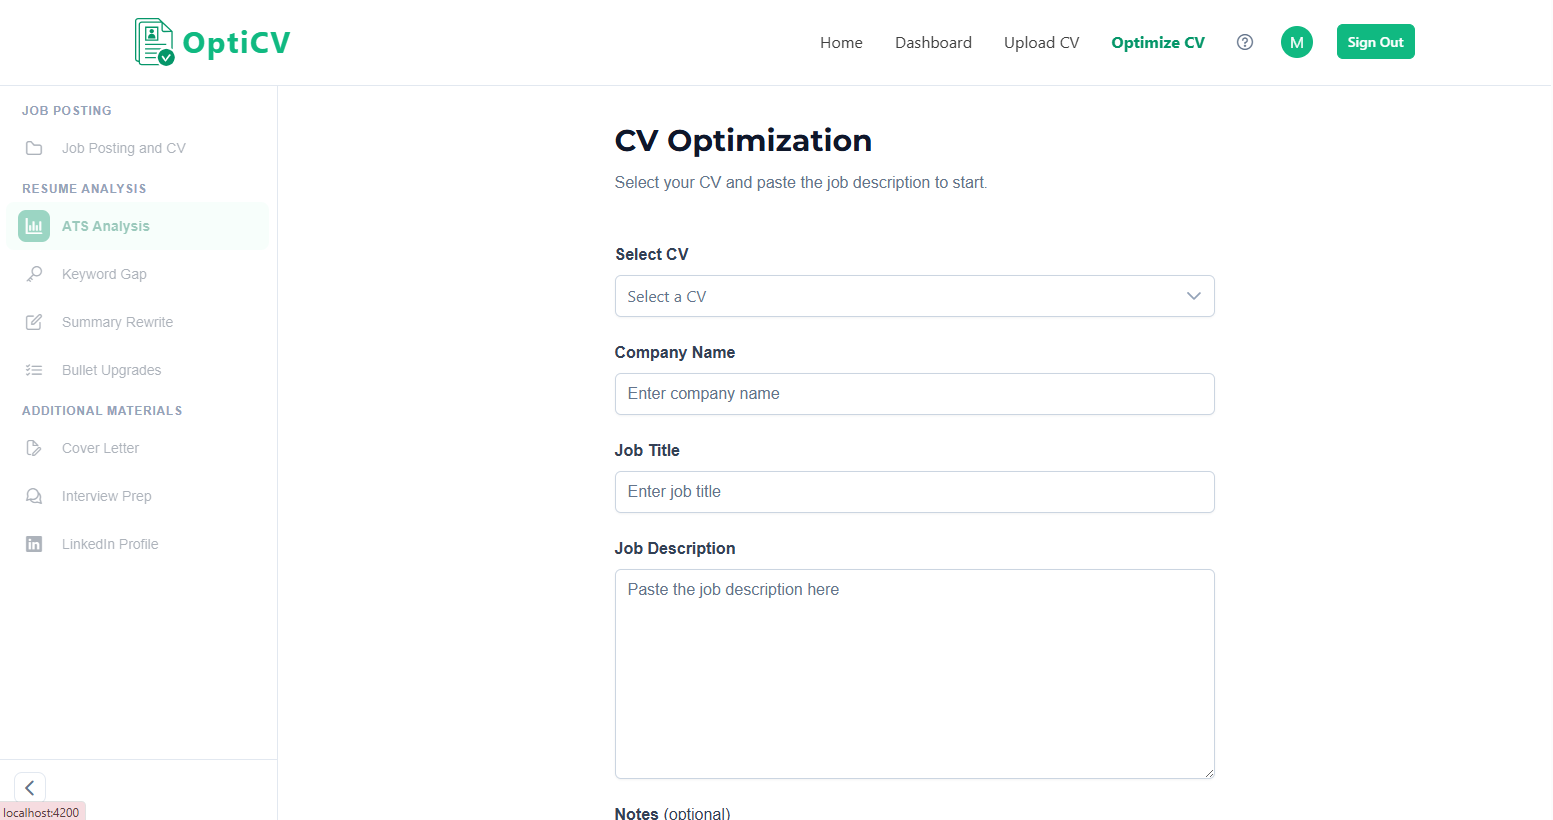
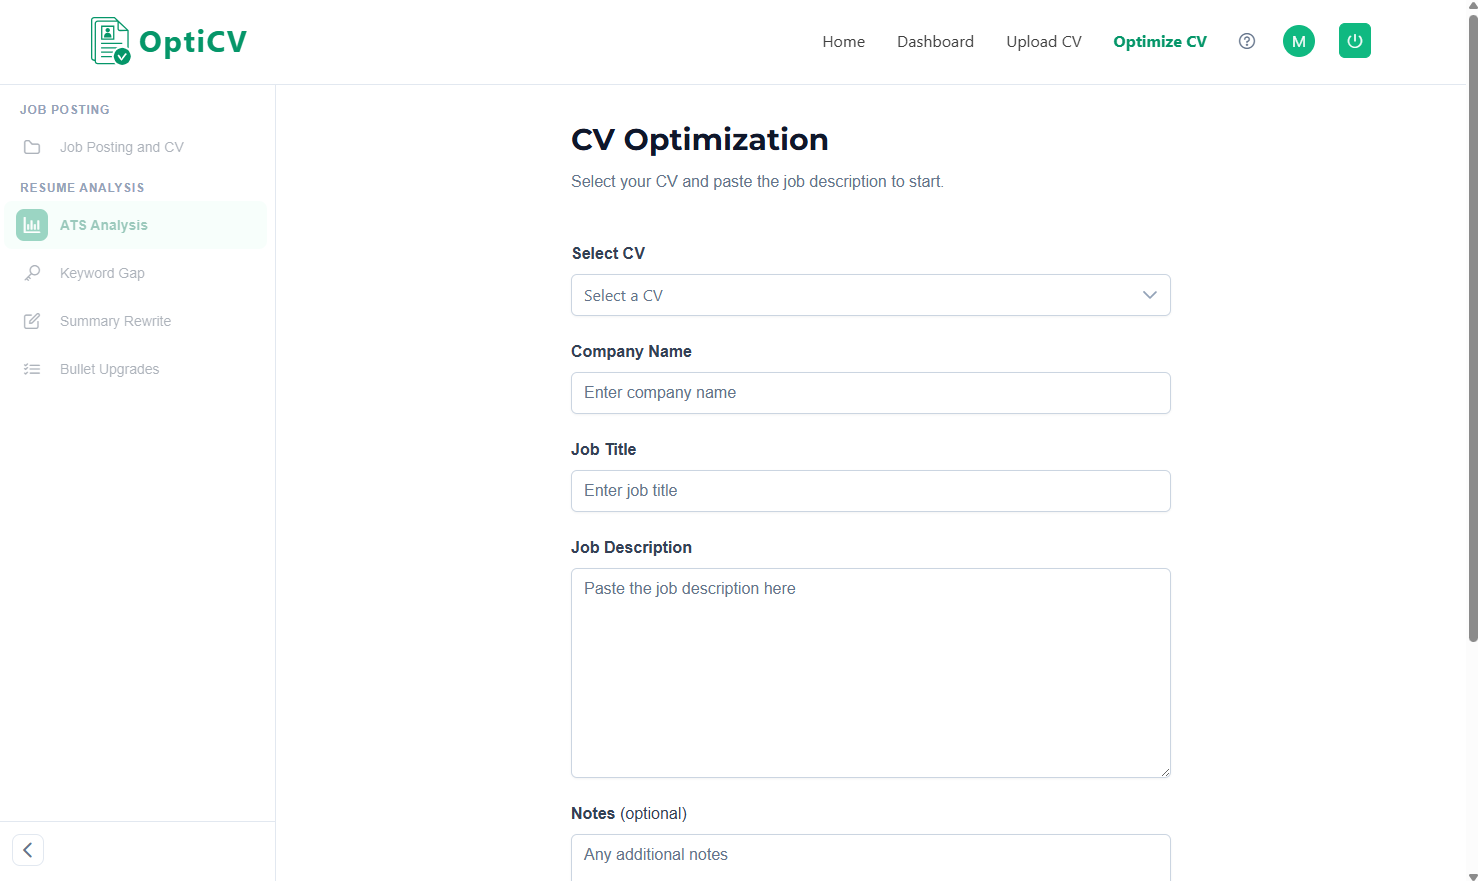
Task 100: Update images in welcome guide tour

diff --git a/docs/tasks-list.md b/docs/tasks-list.md
@@ -1271,12 +1271,12 @@ No other behavior changed — the quota-limit check (updateMany with count: { lt
 
 ### 100. UI/UX - Changes in Welcome Guide component
 
-**status: todo**
+**status: done**
 
 **time: 24.07.2026**
 
-- Remove text "2 minutes tour" from welcome guide - makes user want to close welcome guide straight away
-- update images, now the cv optimization page has tabs and sidebar displays only items included in active tab
+- Remove text "2-minutes" text from intro screen of welcome guide - can makes user want to close welcome guide straight away
+- update images because now the cv optimization page has tabs and sidebar displays only items included in active tab
 
 ---
 
